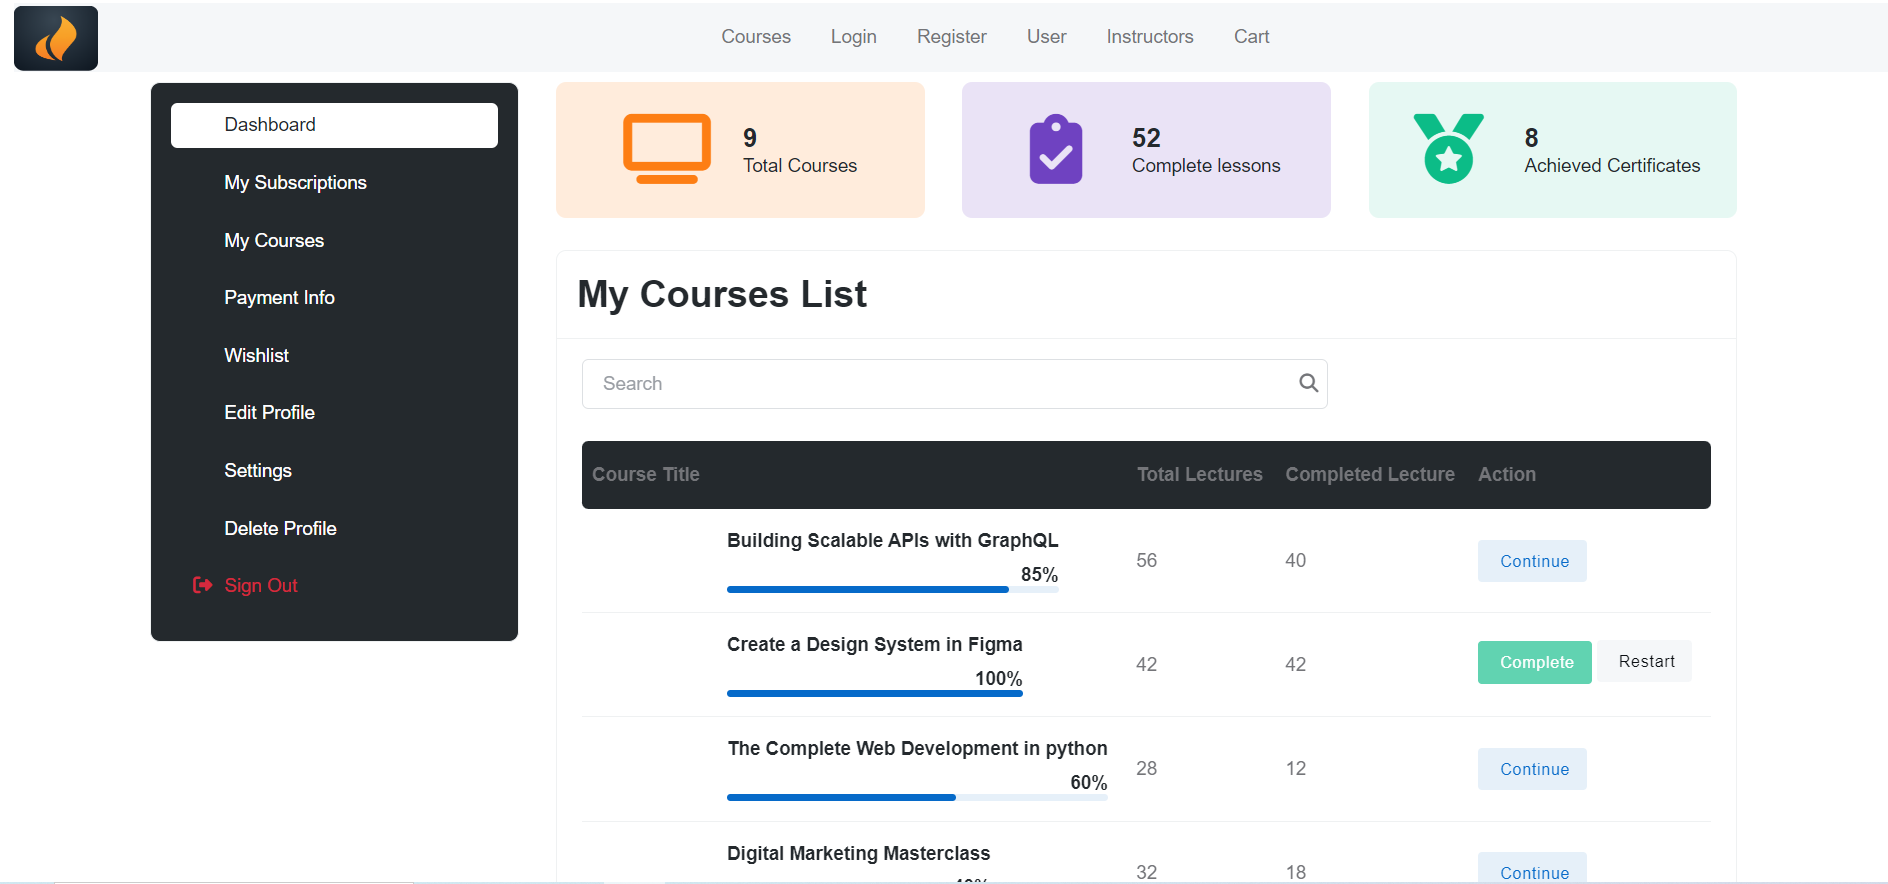
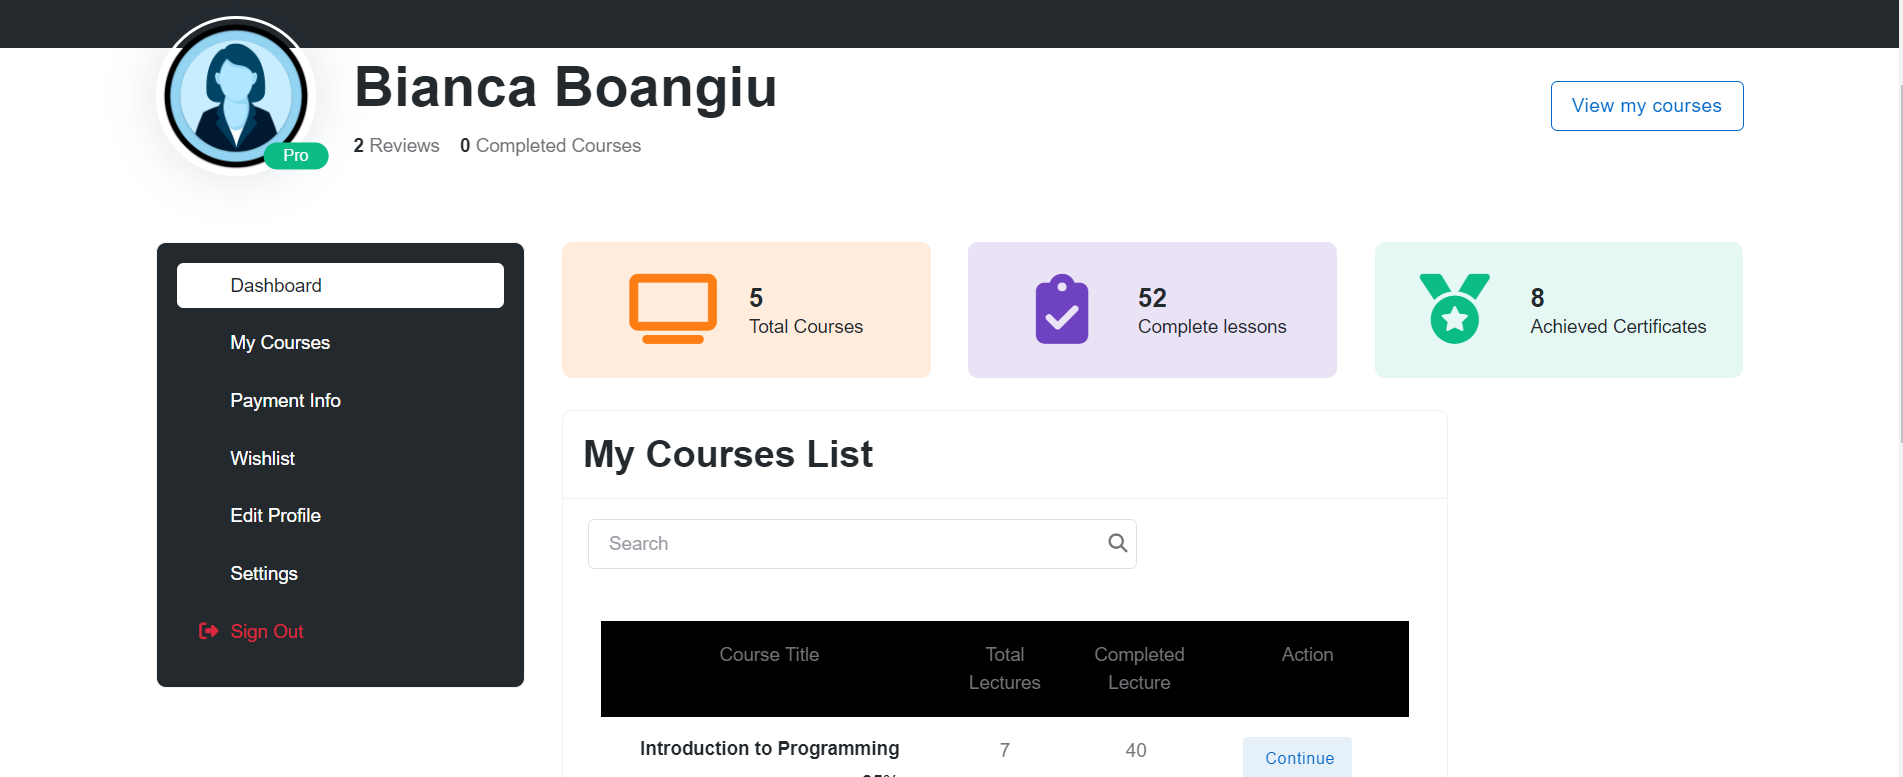
commit

diff --git a/src/app/user/components/account-navbar/account-navbar.component.html b/src/app/user/components/account-navbar/account-navbar.component.html
@@ -26,12 +26,12 @@
           routerLinkActive="active"
           ><i class="bi bi-ui-checks-grid fa-fw me-2"></i>Dashboard</a
         >
-        <a
+        <!-- <a
           class="list-group-item"
           routerLink="subscriptions"
           routerLinkActive="active"
           ><i class="bi bi-card-checklist fa-fw me-2"></i>My Subscriptions</a
-        >
+        > -->
         <a
           class="list-group-item"
           routerLink="user-courses"
@@ -62,12 +62,12 @@
           routerLinkActive="active"
           ><i class="bi bi-gear fa-fw me-2"></i>Settings</a
         >
-        <a
+        <!-- <a
           class="list-group-item"
           routerLink="delete-profile"
           routerLinkActive="active"
           ><i class="bi bi-trash fa-fw me-2"></i>Delete Profile</a
-        >
+        > -->
         <a class="list-group-item text-danger bg-danger-soft-hover"
           ><i class="fas fa-sign-out-alt fa-fw me-2"></i>Sign Out</a
         >

diff --git a/src/app/user/components/courses-list/courses-list.component.ts b/src/app/user/components/courses-list/courses-list.component.ts
@@ -1,4 +1,4 @@
-import { Component } from '@angular/core';
+import { Component, EventEmitter, Output } from '@angular/core';
 import { AuthService } from 'src/app/auth/services/auth.service';
 import { Course } from 'src/app/courses/models/course.interface';
 import { CoursesService } from 'src/app/courses/services/courses.service';
@@ -10,6 +10,8 @@ import { CoursesService } from 'src/app/courses/services/courses.service';
 })
 export class CoursesListComponent {
   courses!: Course[];
+
+  @Output() totalCourses = new EventEmitter<number>();
   constructor(
     private authService: AuthService,
     private coursesService: CoursesService
@@ -25,6 +27,7 @@ export class CoursesListComponent {
         .getCoursesByIds(purchasedCourses)
         .subscribe((courses) => {
           this.courses = courses;
+          this.totalCourses.emit(courses.length);
         });
     }
   }

diff --git a/src/app/user/components/dashboard/dashboard.component.html b/src/app/user/components/dashboard/dashboard.component.html
@@ -17,7 +17,7 @@
             data-purecounter-delay="200"
             data-purecounter-duration="0"
           >
-            9
+            {{ totalCourses }}
           </h5>
         </div>
         <p class="mb-0 h6 fw-light">Total Courses</p>
@@ -74,4 +74,4 @@
   </div>
 </div>
 <!-- Counter boxes END -->
-<app-courses-list></app-courses-list>
+<app-courses-list (totalCourses)="showTotalCourses($event)"></app-courses-list>

diff --git a/src/app/user/components/dashboard/dashboard.component.ts b/src/app/user/components/dashboard/dashboard.component.ts
@@ -3,8 +3,12 @@ import { Component } from '@angular/core';
 @Component({
   selector: 'app-dashboard',
   templateUrl: './dashboard.component.html',
-  styleUrls: ['./dashboard.component.scss']
+  styleUrls: ['./dashboard.component.scss'],
 })
 export class DashboardComponent {
+  totalCourses!: number;
 
+  showTotalCourses(totalCourses: number) {
+    this.totalCourses = totalCourses;
+  }
 }

diff --git a/src/app/courses/components/review/review.component.html b/src/app/courses/components/review/review.component.html
@@ -41,6 +41,12 @@
   </div>
 
   <div class="p-5">
-    <button class="btn btn-light" (click)="deleteReview(review.id)">X</button>
+    <button
+      type="button"
+      class="btn btn-outline-warning btn-sm"
+      (click)="deleteReview(review.id)"
+    >
+      X
+    </button>
   </div>
 </div>

diff --git a/src/app/courses/components/review/review.component.scss b/src/app/courses/components/review/review.component.scss
@@ -24,3 +24,14 @@
    padding:15px; 
 }
 
+
+
+
+ 
+  
+  
+  
+  
+  
+  
+
